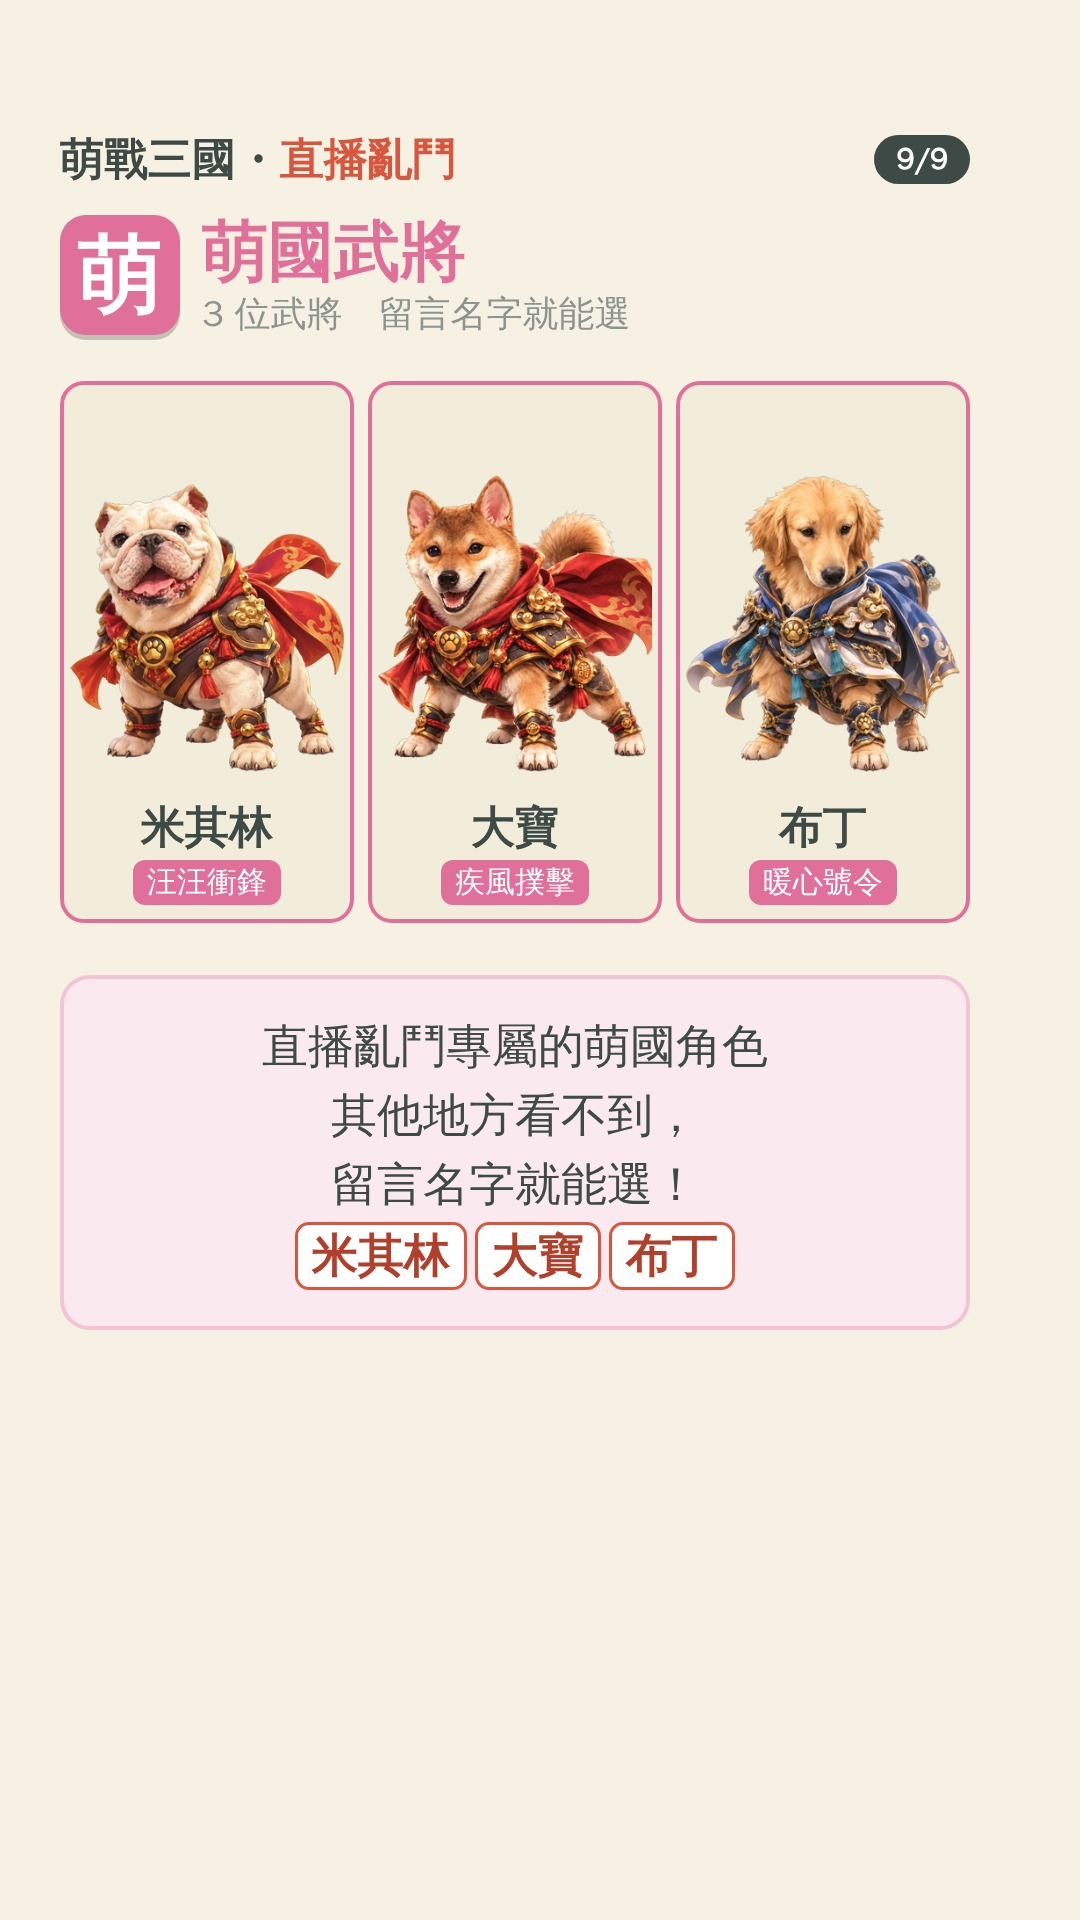
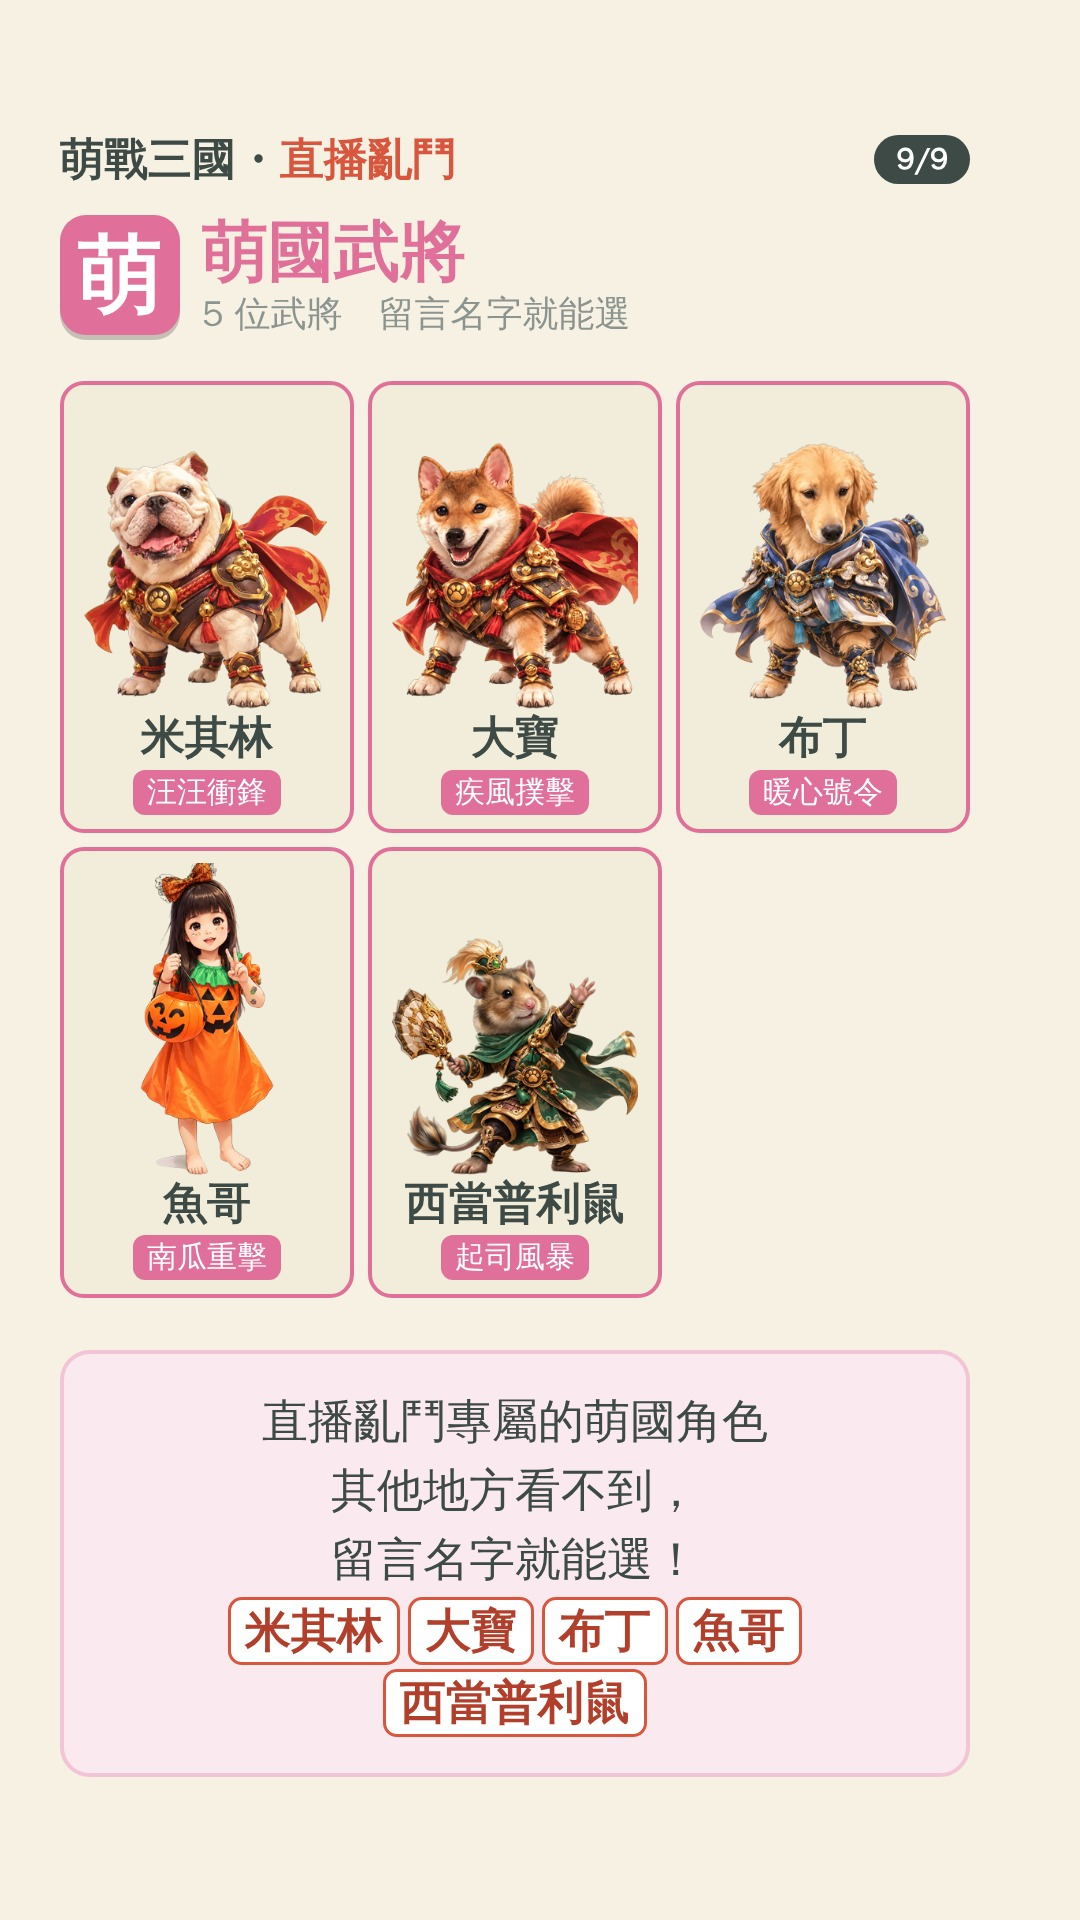
玩法說明第 9 張加入魚哥、西當普利鼠；底部萌國名字標籤改成自動讀名單
Claude-Session: https://claude.ai/code/session_01J1mi4tQsbQufTfnNbsrTar

diff --git a/tools/make_howto.js b/tools/make_howto.js
@@ -127,7 +127,7 @@ for (const key of FACTION_ORDER) {
   slides.push(`<div class="slide" style="--c:${f.color}">${top(slides.length + 1)}<div class="body" style="justify-content:flex-start">
     <div class="fac-head"><div class="seal">${f.label}</div><div class="tt">${f.label + (key === 'Meng' ? '國' : '')}武將<small>${list.length} 位武將　留言名字就能選</small></div></div>
     <div class="grid3">${list.map(h => `<div class="hc"><div class="pic"><img src="${img(h.heroId + '.png')}" style="height:${imgH}px"></div><div class="nm">${h.displayName}</div><div class="sk">${h.skillName}</div></div>`).join('')}</div>
-    ${key === 'Meng' ? `<div class="card" style="margin-top:24px;padding-left:36px;text-align:center;background:#FBE9F0;border-color:#F3C4D6"><p style="font-size:46px;line-height:1.5"><b>直播亂鬥專屬的萌國角色</b><br>其他地方看不到，<br>留言名字就能選！<br><span class="say">米其林</span><span class="say">大寶</span><span class="say">布丁</span></p></div>` : ''}
+    ${key === 'Meng' ? `<div class="card" style="margin-top:24px;padding-left:36px;text-align:center;background:#FBE9F0;border-color:#F3C4D6"><p style="font-size:46px;line-height:1.5"><b>直播亂鬥專屬的萌國角色</b><br>其他地方看不到，<br>留言名字就能選！<br>${heroData.filter(h => h.faction === 'Meng').map(h => `<span class="say">${h.displayName}</span>`).join('')}</p></div>` : ''}
   </div></div>`);
 }
 
